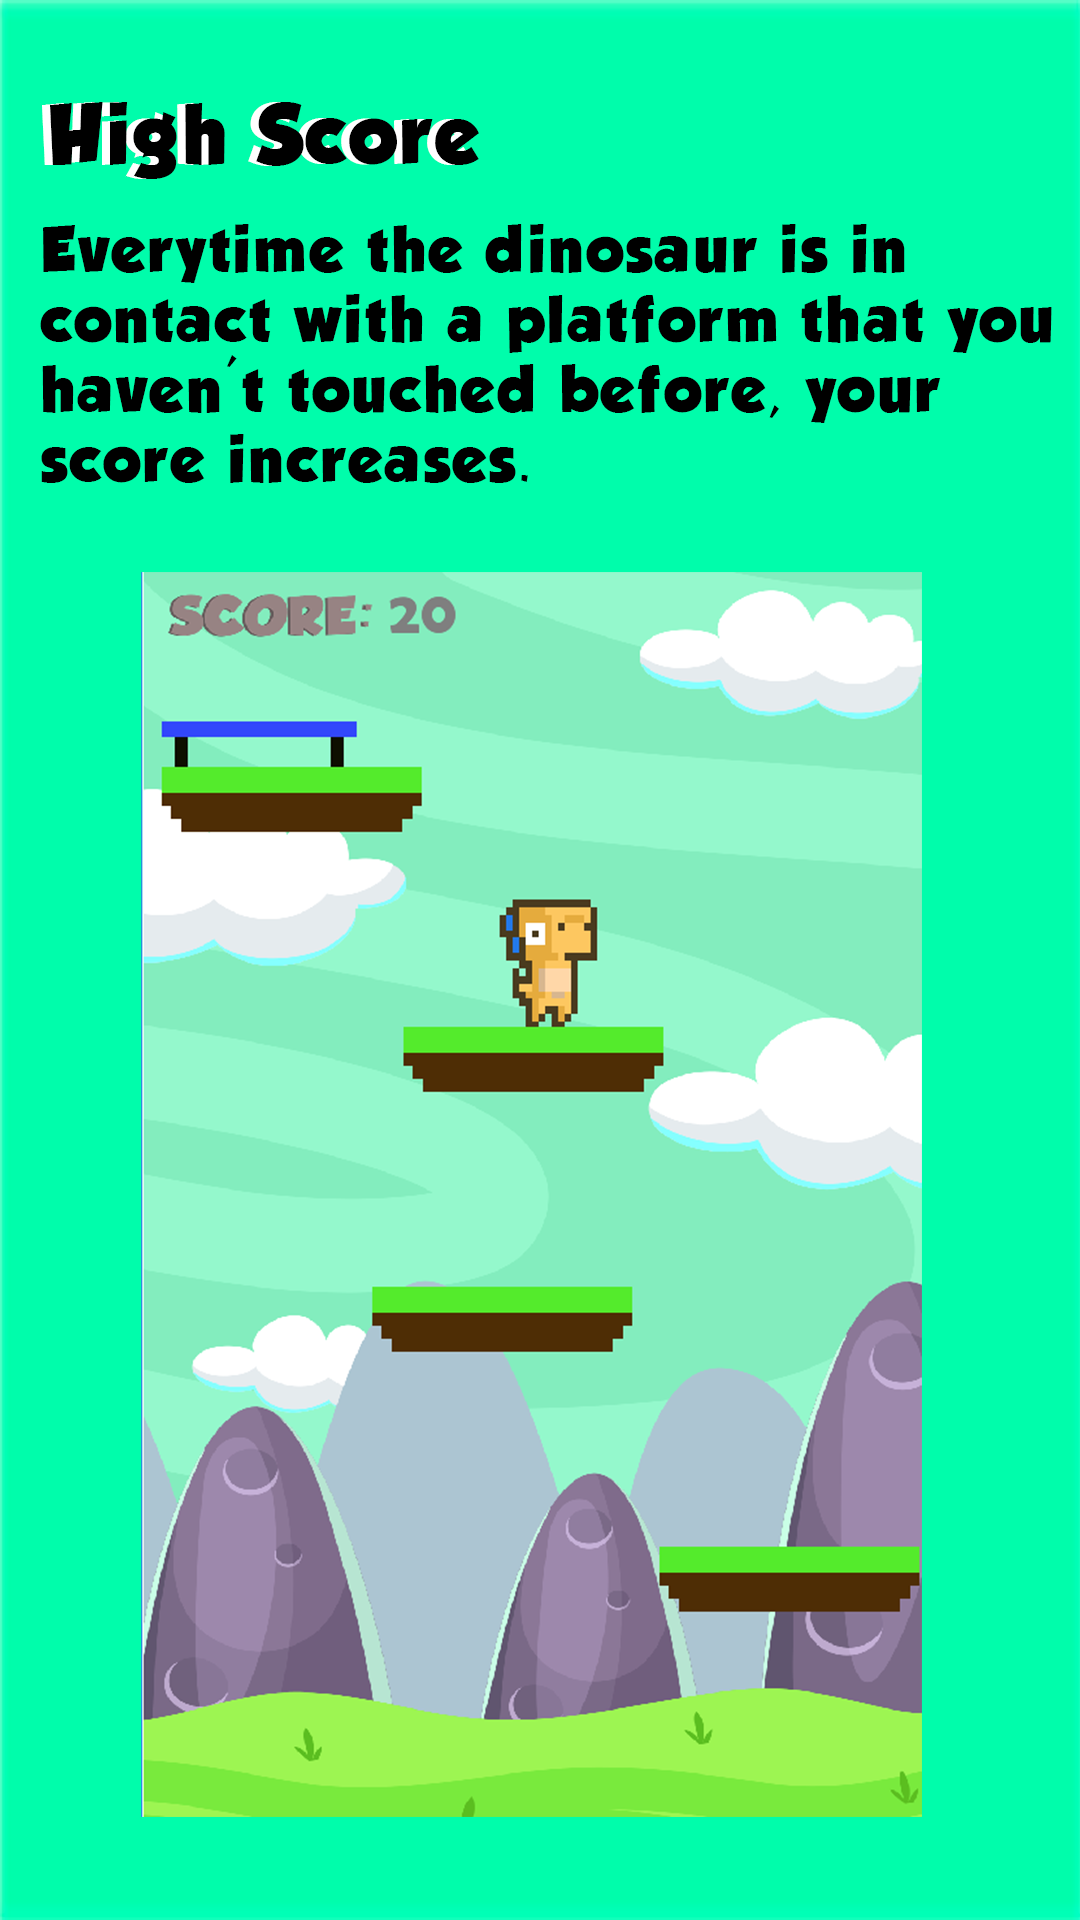
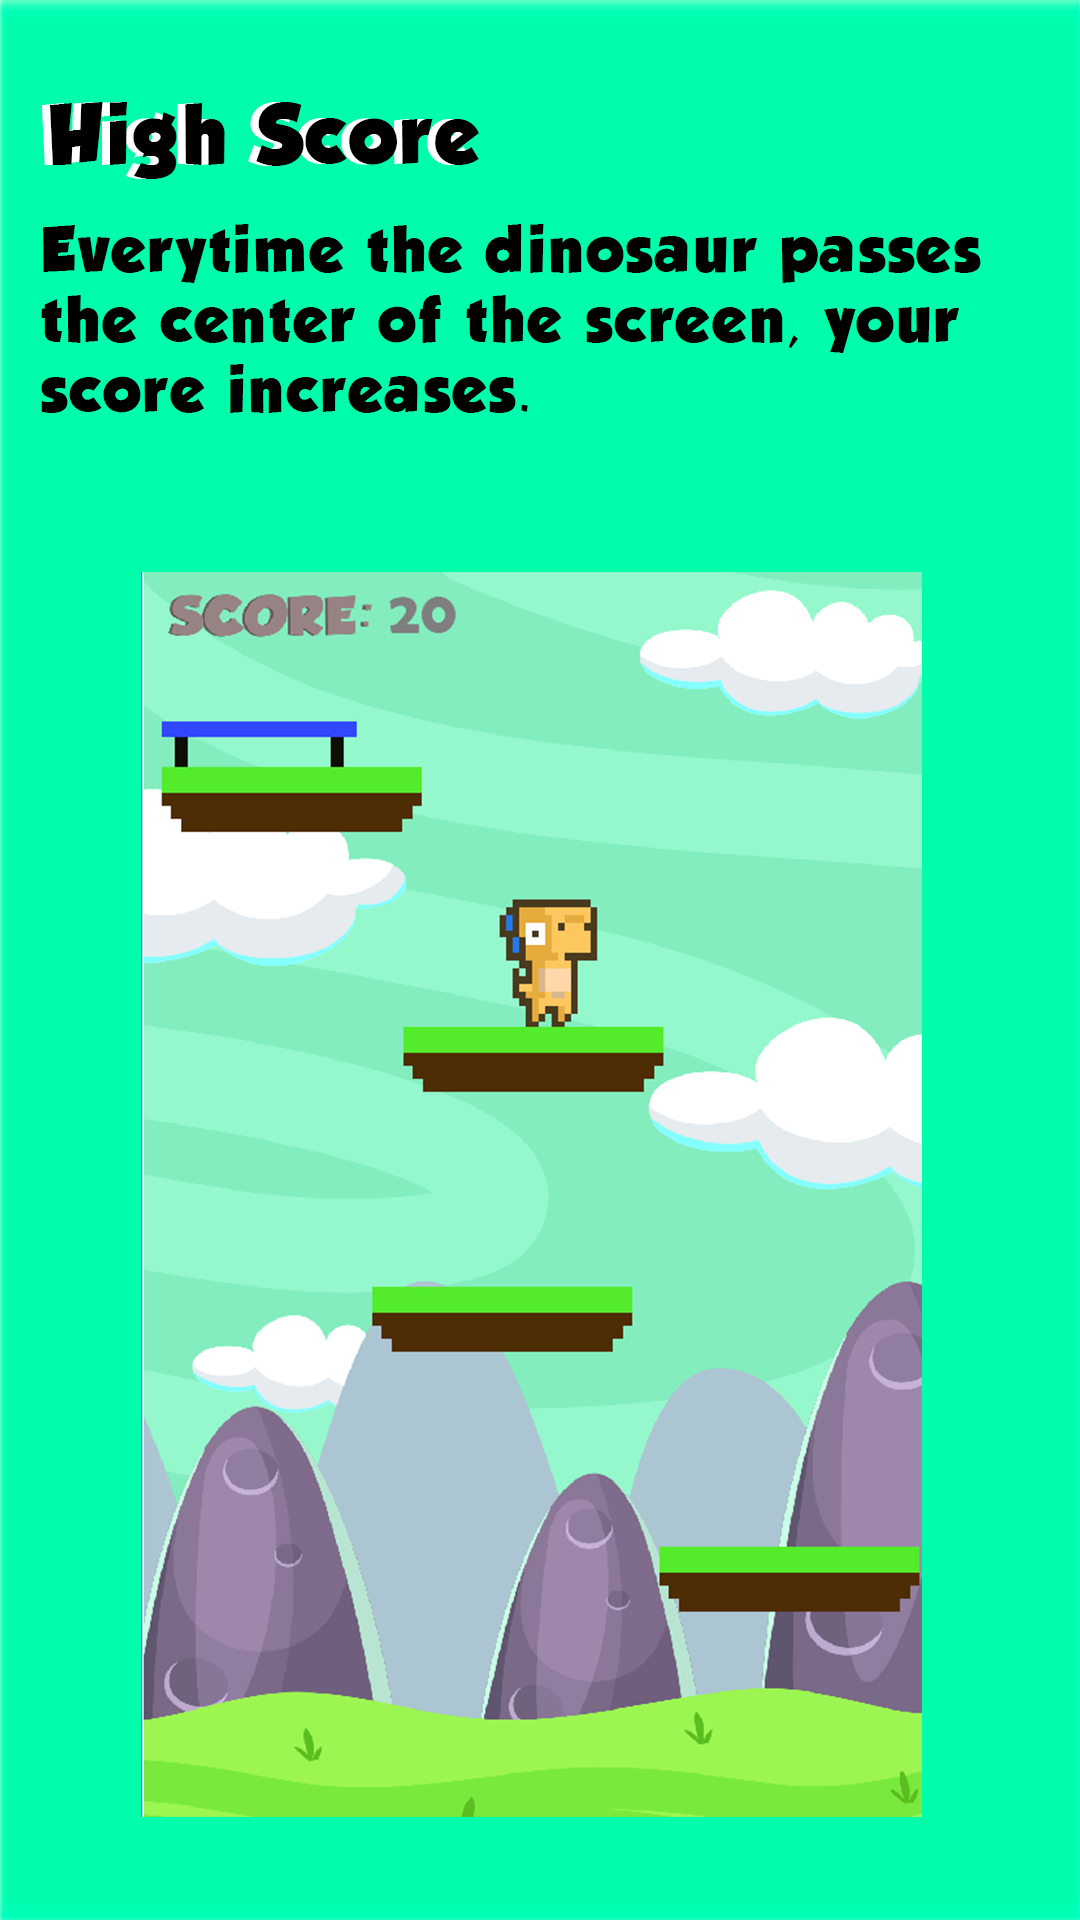
Integrated moving screen and platforms respawning at top of screen

Changed region(s): [[0.0306, 0.125, 0.9778, 0.25]]

diff --git a/core/src/gdx/game/ScrPlay.java b/core/src/gdx/game/ScrPlay.java
@@ -9,6 +9,7 @@ import com.badlogic.gdx.Input;
 import com.badlogic.gdx.Screen;
 import com.badlogic.gdx.graphics.Color;
 import com.badlogic.gdx.graphics.GL20;
+import com.badlogic.gdx.graphics.OrthographicCamera;
 import com.badlogic.gdx.graphics.Texture;
 import com.badlogic.gdx.graphics.g2d.BitmapFont;
 import com.badlogic.gdx.graphics.g2d.GlyphLayout;
@@ -30,6 +31,7 @@ public class ScrPlay implements Screen {
     Rectangle rectDino, rectPlatform, rectSpring, rectTrampoline;
     Sprite sprDino, sprPlatform, sprSpring, sprTrampoline;
     ShapeRenderer shapeRenderer;
+    public OrthographicCamera camera;
     BitmapFont bmFontScore;
     int nYDinoX = 100, nYDinoY = 200, nYDinoWidth = 75, nYDinoHeight = 100, nPlatWidth = 200, nPlatHeight = 50, nSpringHeight = 35, nSpringWidth = 100, nTrampHeight = 35, nTrampWidth = 150;
     int nSpriteSpeed = 5, nCountJump = 0, nCountOverlap = 0, nCountScore = 0;
@@ -53,6 +55,9 @@ public class ScrPlay implements Screen {
         sprSpring = new Sprite(txtspring);
         sprTrampoline = new Sprite(txttrampoline);
         shapeRenderer = new ShapeRenderer();
+        camera = new OrthographicCamera();
+        camera.setToOrtho(false);
+        camera.position.set(Gdx.graphics.getWidth() / 2, Gdx.graphics.getHeight() / 2, 0);
         arnPlatform = CreatePlatforms();
         bmFontScore = new BitmapFont(Gdx.files.internal("fonts/score.fnt"));
         bmFontScore.setColor(Color.GRAY);
@@ -67,29 +72,44 @@ public class ScrPlay implements Screen {
     @Override
     public void render(float delta) {
         Gdx.gl.glClear(GL20.GL_COLOR_BUFFER_BIT);
+        camera.update();
         batch.begin();
-        batch.draw(txtbackground, 0, 0, Gdx.graphics.getWidth(), Gdx.graphics.getHeight()); //background
+        batch.draw(txtbackground, 0, camera.position.y - 500, Gdx.graphics.getWidth(), Gdx.graphics.getHeight()); //background
         batch.draw(txtdino, nYDinoX, nYDinoY, nYDinoWidth, nYDinoHeight); //yellow dino
         for (int i = 1; i < arnPlatform.length; i++) { // platforms
             batch.draw(txtplatform, arnPlatform[i].nX, arnPlatform[i].nY, arnPlatform[i].nWidth, arnPlatform[i].nHeight);
+                batch.draw(sprPlatform, arnPlatform[i].nX, arnPlatform[i].nY, arnPlatform[i].nWidth, arnPlatform[i].nHeight);
+                if (arnPlatform[i].nY <= camera.position.y - 500) {
+                    batch.draw(sprPlatform, arnPlatform[i].nX, arnPlatform[i].nY + 1000, arnPlatform[i].nWidth, arnPlatform[i].nHeight);
+                }
+            }
+            if (nTrampOrSpring == 1) {
+                batch.draw(sprSpring, arnPlatform[nRNG].nX, arnPlatform[nRNG].nY + 50, nSpringWidth, nSpringHeight); //spring
+                if (arnPlatform[nRNG].nY <= camera.position.y - 500) {
+                    batch.draw(sprSpring, arnPlatform[nRNG].nX, arnPlatform[nRNG].nY + 1050, nSpringWidth, nSpringHeight); //spring
+                }
+            }
+            if (nTrampOrSpring == 2) {
+                batch.draw(sprTrampoline, arnPlatform[nRNG].nX, arnPlatform[nRNG].nY + 50, nTrampWidth, nTrampHeight);  //trampoline
+                if (arnPlatform[nRNG].nY <= camera.position.y - 500) {
+                    batch.draw(sprTrampoline, arnPlatform[nRNG].nX, arnPlatform[nRNG].nY + 1050, nTrampWidth, nTrampHeight);  //trampoline
+                }
+            }
+
+            GlyphLayout glScore = new GlyphLayout(bmFontScore, sScore);
+            bmFontScore.draw(batch, glScore, 190, camera.position.y + 483);
+            batch.end();
+            batch.setProjectionMatrix(camera.combined);
+            HandleKeys();
+            ScreenWrap();
+            PlatHD();                //HD stands for hit detection
+            HandleJumping();
+            HandleFalling();
+            SpringHD();              //HD stands for hit detection
+            TrampHD();               //HD stands for hit detection
         }
-        if (nTrampOrSpring == 1) {
-            batch.draw(txtspring, arnPlatform[nRNG].nX, arnPlatform[nRNG].nY + 50, nSpringWidth, nSpringHeight); //spring
-        }
-        if (nTrampOrSpring == 2) {
-            batch.draw(txttrampoline, arnPlatform[nRNG].nX, arnPlatform[nRNG].nY + 50, nTrampWidth, nTrampHeight);  //trampoline
-        }
-        GlyphLayout glScore = new GlyphLayout(bmFontScore, sScore);
-        bmFontScore.draw(batch, glScore, 190, 984);
-        batch.end();
-        HandleKeys();
-        ScreenWrap();
-        PlatHD();                //HD stands for hit detection
-        HandleJumping();
-        HandleFalling();
-        SpringHD();              //HD stands for hit detection
-        TrampHD();               //HD stands for hit detection
-    }
+
+    
 
     public void HandleKeys() {
         if (Gdx.input.isKeyPressed(Input.Keys.RIGHT)) {
@@ -132,6 +152,7 @@ public class ScrPlay implements Screen {
         sprDino.setPosition(nYDinoX, nYDinoY);
         rectDino = new Rectangle(sprDino.getBoundingRectangle());
         for (int i = 0; i < arnPlatform.length; i++) {
+            Rectangle arnRectPlatform[] = new Rectangle[5];
             boolean isOverlapping = rectDino.overlaps(arnPlatform[i].rectPlatform);
             if (isOverlapping) {
                 bCanJump = true;
@@ -139,9 +160,17 @@ public class ScrPlay implements Screen {
                 dFallSpeed = 0;
                 arnPlatform[i].nJumpedOn += 1;
             }
-            if (isOverlapping && arnPlatform[i].nJumpedOn == 1) { //if it is overlapping and hasnt been touched before
-                nCountScore += 10;
-                sScore = "" + nCountScore;
+            if (arnPlatform[i].nY <= camera.position.y - 500) {
+                sprPlatform.setSize(arnPlatform[i].nWidth, arnPlatform[i].nHeight);
+                sprPlatform.setPosition(arnPlatform[i].nX, arnPlatform[i].nY + 1000);
+                rectPlatform = new Rectangle(sprPlatform.getBoundingRectangle());
+                arnRectPlatform[i] = rectPlatform;
+                isOverlapping = rectDino.overlaps(arnRectPlatform[i]);
+                if (isOverlapping) {
+                    bCanJump = true;
+                    bCanFall = false;
+                    dFallSpeed = 0;
+                }
             }
         }
     }
@@ -151,6 +180,12 @@ public class ScrPlay implements Screen {
             nCountJump++;
             nYDinoY += dJumpSpeed;
             dJumpSpeed -= dGravity;
+            if (nYDinoY >= camera.position.y) {
+                camera.position.y += dJumpSpeed;
+                nCountScore += 10;
+                sScore = "" + nCountScore;
+            }
+
             if (nCountJump >= 40) {
                 bCanJump = false;
                 bCanFall = true;
@@ -177,12 +212,25 @@ public class ScrPlay implements Screen {
             sprSpring.setSize(nSpringWidth, nSpringHeight);
             sprSpring.setPosition(arnPlatform[nRNG].nX, arnPlatform[nRNG].nY + 50);
             rectSpring = new Rectangle(sprSpring.getBoundingRectangle());
+
             boolean isOverlapping = rectDino.overlaps(rectSpring);
             if (isOverlapping) {
                 bCanJump = true;
                 bCanFall = false;
                 dFallSpeed = 0;
                 dJumpSpeed = 25;
+            }
+            if (arnPlatform[nRNG].nY <= camera.position.y - 500) {
+                sprSpring.setSize(nSpringWidth, nSpringHeight);
+                sprSpring.setPosition(arnPlatform[nRNG].nX, arnPlatform[nRNG].nY + 1050);
+                rectSpring = new Rectangle(sprSpring.getBoundingRectangle());
+                isOverlapping = rectDino.overlaps(rectSpring);
+                if (isOverlapping) {
+                    bCanJump = true;
+                    bCanFall = false;
+                    dFallSpeed = 0;
+                    dJumpSpeed = 25;
+                }
             }
         }
     }
@@ -192,12 +240,25 @@ public class ScrPlay implements Screen {
             sprTrampoline.setSize(nTrampWidth, nTrampHeight);
             sprTrampoline.setPosition(arnPlatform[nRNG].nX, arnPlatform[nRNG].nY + 50);
             rectTrampoline = new Rectangle(sprTrampoline.getBoundingRectangle());
+
             boolean isOverlapping = rectDino.overlaps(rectTrampoline);
             if (isOverlapping) {
                 bCanJump = true;
                 bCanFall = false;
                 dFallSpeed = 0;
                 dJumpSpeed = 30;
+            }
+            if (arnPlatform[nRNG].nY <= camera.position.y - 500) {
+                sprSpring.setSize(nSpringWidth, nSpringHeight);
+                sprSpring.setPosition(arnPlatform[nRNG].nX, arnPlatform[nRNG].nY + 1050);
+                rectSpring = new Rectangle(sprSpring.getBoundingRectangle());
+                isOverlapping = rectDino.overlaps(rectSpring);
+                if (isOverlapping) {
+                    bCanJump = true;
+                    bCanFall = false;
+                    dFallSpeed = 0;
+                    dJumpSpeed = 30;
+                }
             }
         }
     }
